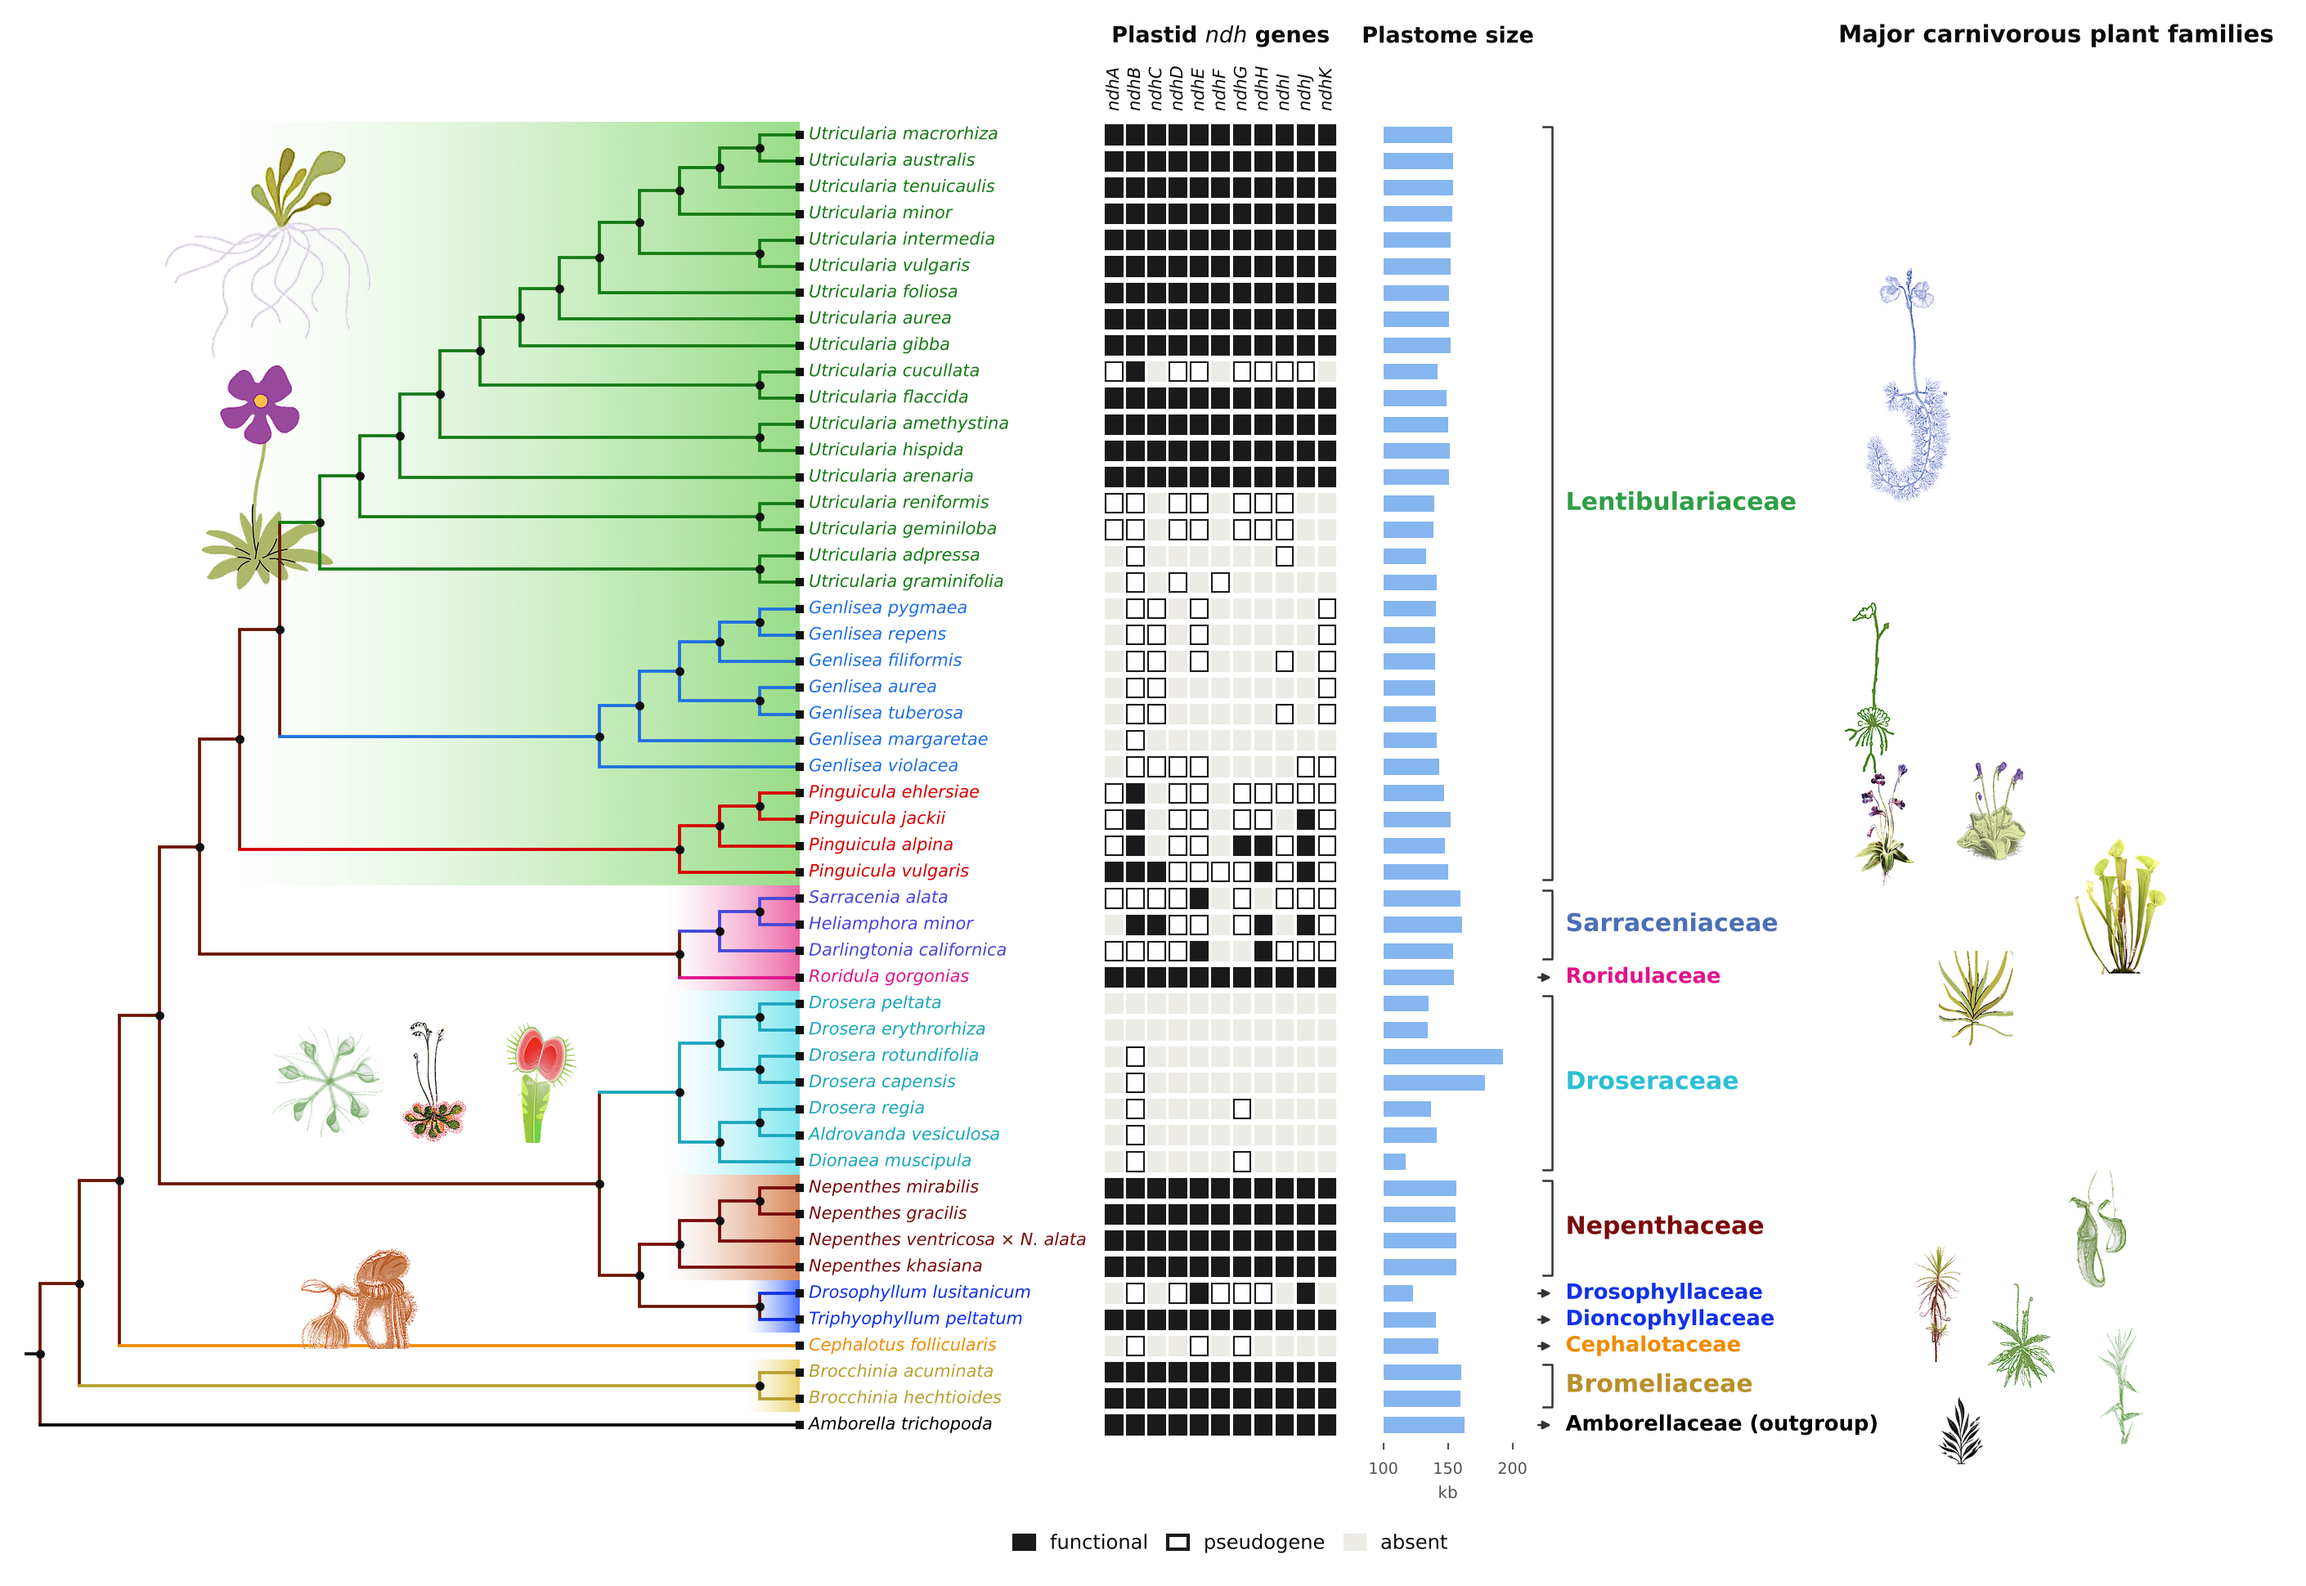
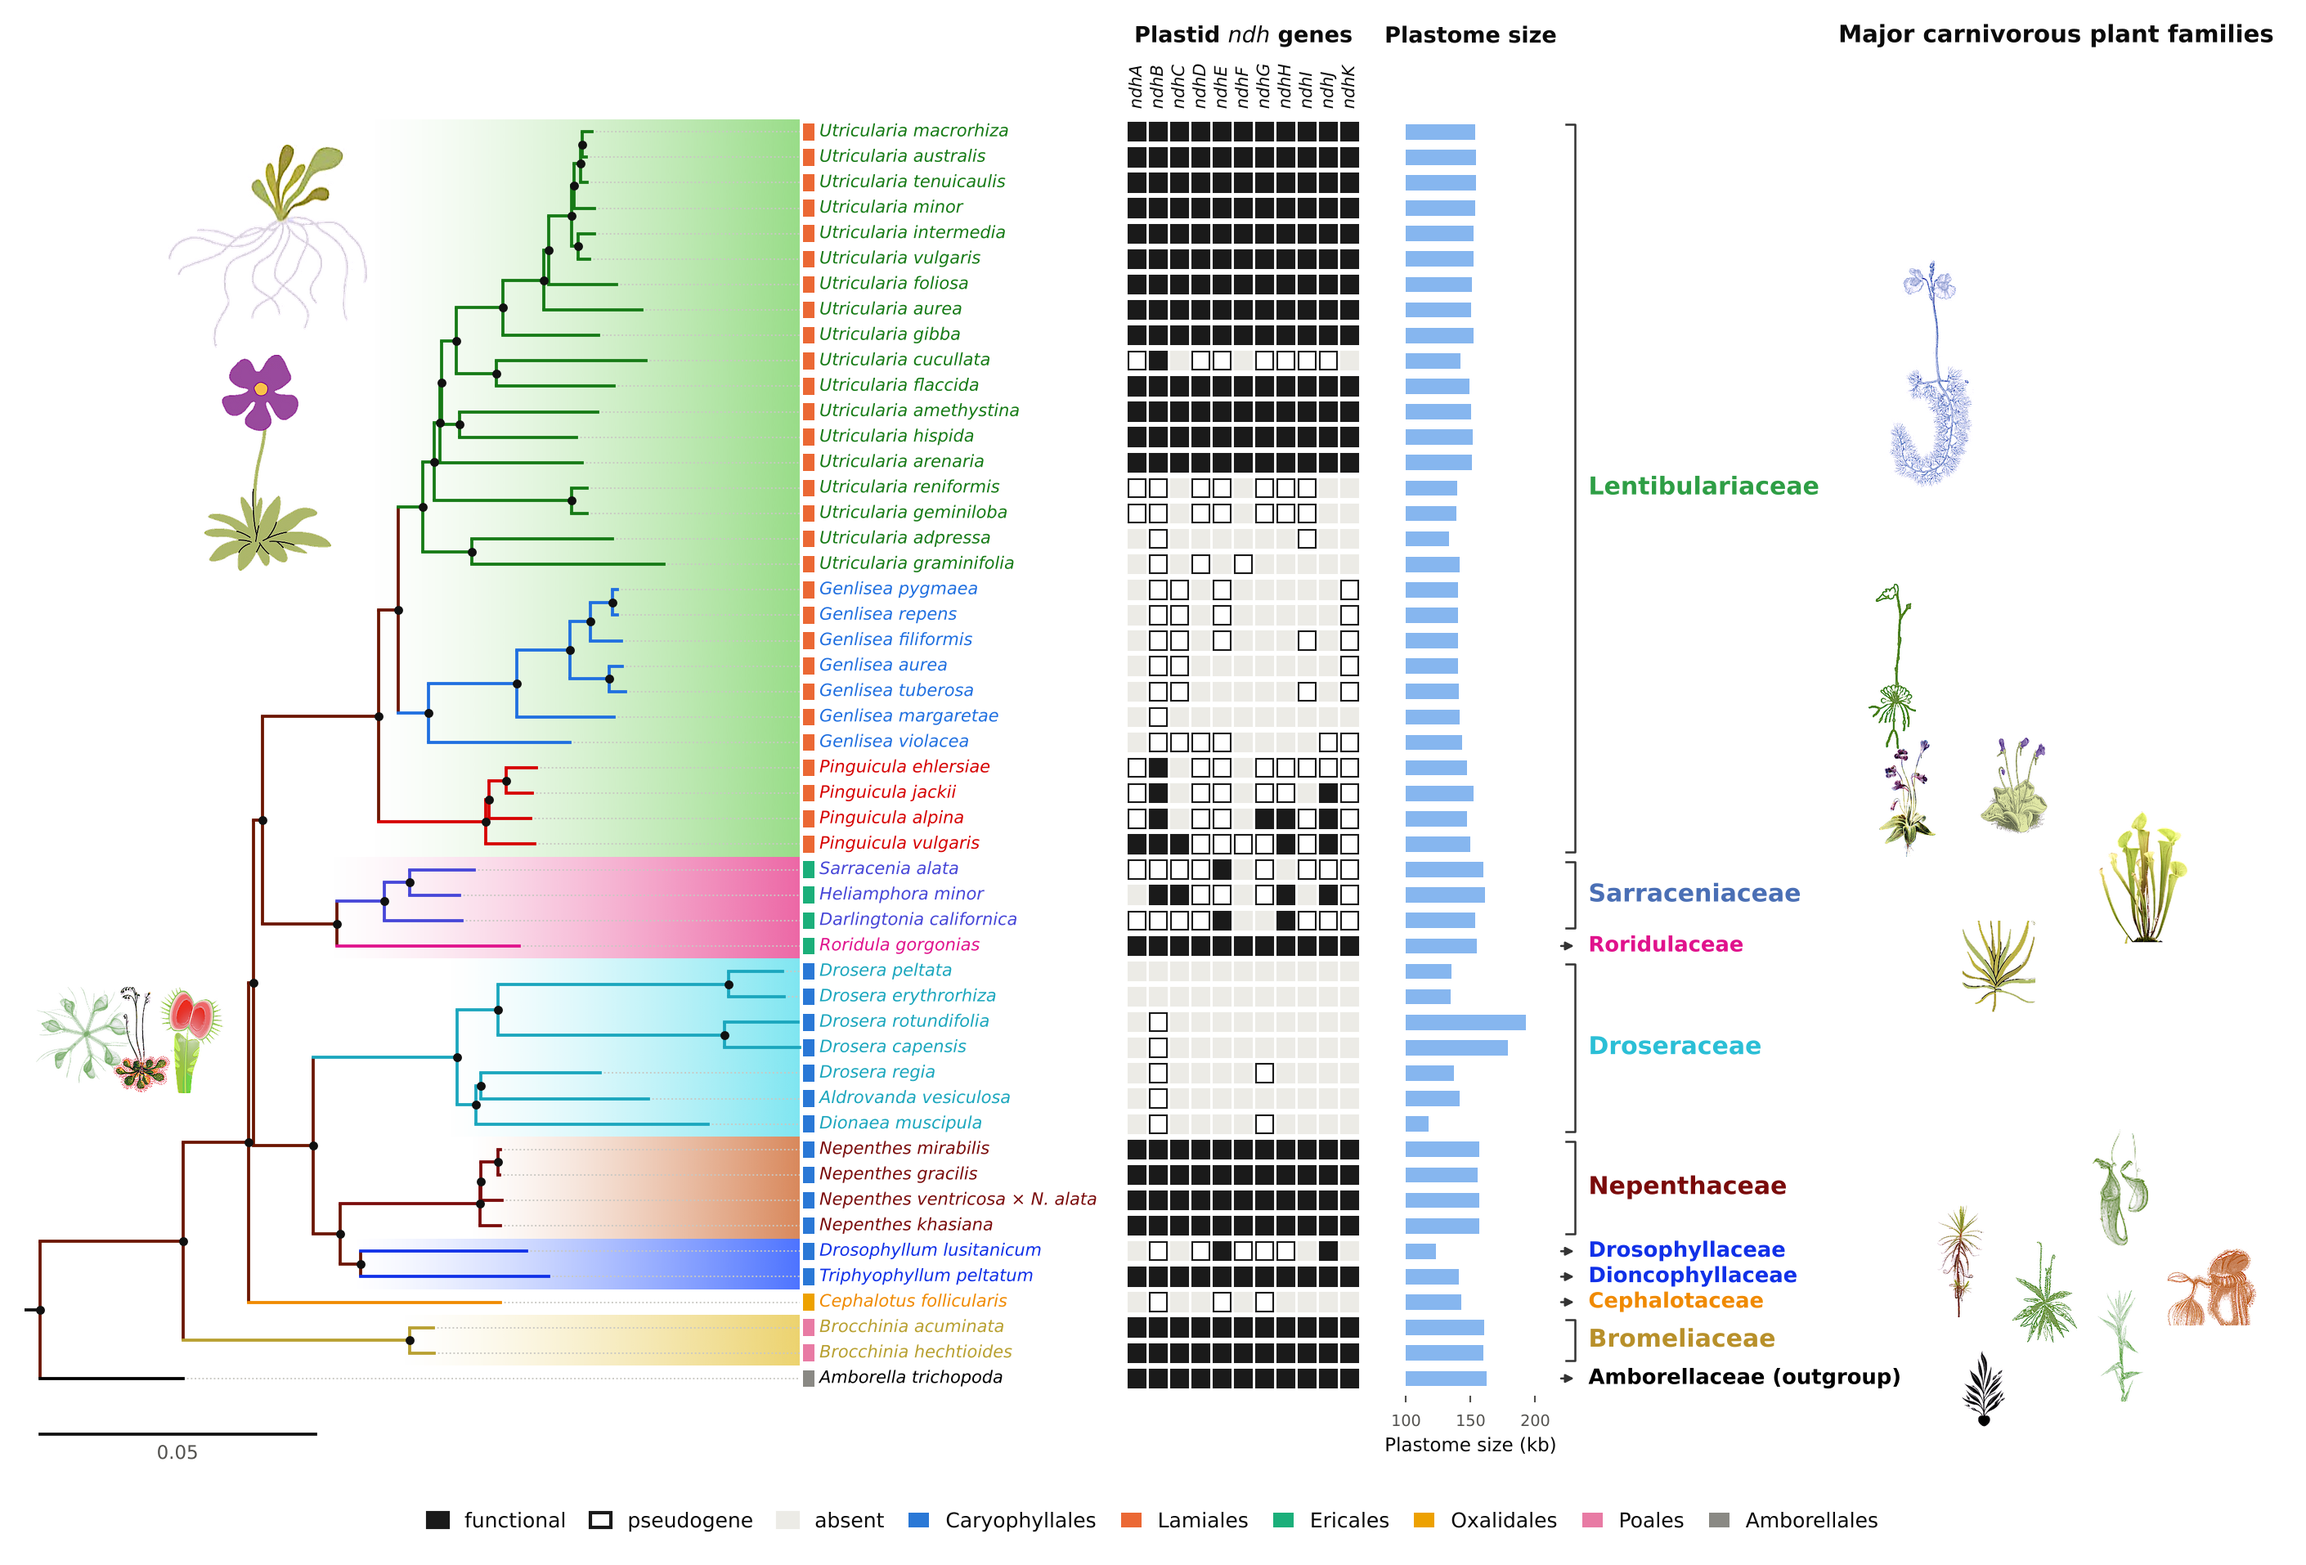
Figure 3: phylogram with scale bar, order key and plastome-size axis
Claude-Session: https://claude.ai/code/session_018DKqCkKyTRV1map7Ztk4b1

diff --git a/scripts/figures.py b/scripts/figures.py
@@ -425,14 +425,12 @@ def fig3_illustrated(out):
     m = meta()
     tr = Phylo.read('results/kmer/kmer_nj.nwk', 'newick')
     tr.root_with_outgroup('Amborella_trichopoda'); tr.ladderize(reverse=True)
+    a_, b_ = tr.root.clades; tot = (a_.branch_length or 0) + (b_.branch_length or 0)
+    a_.branch_length = b_.branch_length = tot / 2          # place the root midway on the outgroup branch
     terms = tr.get_terminals(); n = len(terms)
     yy = {t: i for i, t in enumerate(terms)}
-    height = {}
-    def ht(c):
-        height[c] = 0 if c.is_terminal() else 1 + max(ht(ch) for ch in c.clades)
-        return height[c]
-    ht(tr.root); Hmax = height[tr.root]
-    X = {c: 1 - height[c] / Hmax for c in tr.find_clades()}
+    dep = tr.depths(); DMAX = max(dep[t] for t in terms)
+    X = {c: dep[c] / DMAX for c in tr.find_clades()}   # phylogram: x proportional to Mash distance
     def sety(c):
         if c in yy: return yy[c]
         v = [sety(ch) for ch in c.clades]; yy[c] = (min(v) + max(v)) / 2; return yy[c]
@@ -453,8 +451,8 @@ def fig3_illustrated(out):
     fig = plt.figure(figsize=(W_in, H_in))
     ax = fig.add_axes([0.0, 0.06, 1.0, 0.88])
     XMAX = 2.95
-    ax.set_xlim(-0.02, XMAX); ax.set_ylim(n + 0.5, -3.6); ax.axis('off')
-    ux = (XMAX + 0.02) / W_in; uy = (n + 4.1) / (H_in * 0.88)
+    ax.set_xlim(-0.02, XMAX); ax.set_ylim(n + 2.4, -3.6); ax.axis('off')
+    ux = (XMAX + 0.02) / W_in; uy = (n + 6.0) / (H_in * 0.88)
 
     def picture(name, xc, yc, h_rows, z=3):
         img = plt.imread(f'figures/plants/{name}.png')
@@ -482,13 +480,18 @@ def fig3_illustrated(out):
             ax.plot(X[c], yy[c], 'o', ms=1.6, color='#111111', zorder=3)
     draw(tr.root)
     ax.plot([X[tr.root] - 0.02, X[tr.root]], [yy[tr.root]] * 2, color='#111111', lw=0.9)
+    sb = 0.05 / DMAX
+    ax.plot([0.0, sb], [n + 1.2] * 2, color='#111111', lw=0.9)
+    ax.text(sb / 2, n + 1.6, '0.05', ha='center', va='top', fontsize=5.5, color=INK2)
     # tip labels
     for t in terms:
         col = colour.get(id(t), '#000000')
-        ax.plot(1.0, yy[t], 's', ms=1.6, color='#111111', zorder=3)
-        ax.text(1.012, yy[t], pretty(t.name), va='center', fontsize=5.0, color=col, style='italic')
+        if X[t] < 0.995:
+            ax.plot([X[t], 1.0], [yy[t]] * 2, color='#c9c8c3', lw=0.45, ls=(0, (1, 1.5)), zorder=1)
+        ax.add_patch(Rectangle((1.004, yy[t] - 0.33), 0.016, 0.66, color=ORDER_COL[m.loc[t.name, 'order']], lw=0, zorder=3))
+        ax.text(1.026, yy[t], pretty(t.name), va='center', fontsize=5.0, color=col, style='italic')
     # ndh matrix
-    mx0, cw = 1.40, 0.028
+    mx0, cw = 1.43, 0.028
     sym = {'F': dict(fc='#1a1a1a', ec='#1a1a1a'), 'P': dict(fc='white', ec='#1a1a1a'), '-': dict(fc='#ecebe6', ec='#ecebe6')}
     for t in terms:
         r = ndh.loc[t.name]
@@ -507,7 +510,7 @@ def fig3_illustrated(out):
         xv = sx0 + sw * (v - 100) / 100
         ax.plot([xv, xv], [n - 0.3, n - 0.1], color=INK2, lw=0.5)
         ax.text(xv, n + 0.4, f'{v}', ha='center', va='top', fontsize=4.6, color=INK2)
-    ax.text(sx0 + sw / 2, n + 1.3, 'kb', ha='center', va='top', fontsize=4.8, color=INK2)
+    ax.text(sx0 + sw / 2, n + 1.3, 'Plastome size (kb)', ha='center', va='top', fontsize=5.5, color=INK)
     # family brackets and labels
     bx = sx0 + sw + 0.04
     for key, (mrca, tips, col, band, flab, fcol) in groups.items():
@@ -533,23 +536,23 @@ def fig3_illustrated(out):
     picture('nepenthes', px + 0.30, yof('Nepenthes'), 4.6)
     picture('drosophyllum', px + 0.09, yof('Drosophyllum') + 0.4, 4.4)
     picture('triphyophyllum', px + 0.20, yof('Triphyophyllum') + 0.6, 4.0)
-    picture('brocchinia', px + 0.33, yof('Brocchinia'), 4.4)
+    picture('brocchinia', px + 0.30, yof('Brocchinia') + 0.2, 4.4)
+    picture('cephalotus', px + 0.42, yof('Cephalotus') - 0.6, 3.0)
     picture('amborella', px + 0.12, yof('Amborella') + 0.4, 3.0)
     # drawings within the tree area, beside their clades
     dro = [t for t in terms if t.name.startswith(('Drosera', 'Dionaea', 'Aldrovanda'))]
     yd = (min(yy[t] for t in dro) + max(yy[t] for t in dro)) / 2
-    picture('aldrovanda', 0.38, yd, 4.2); picture('drosera', 0.52, yd, 4.6); picture('dionaea', 0.66, yd, 4.6)
-    picture('cephalotus', 0.42, yof('Cephalotus') - 1.8, 3.8)
+    picture('aldrovanda', 0.06, yd - 0.5, 3.8); picture('drosera', 0.135, yd - 0.3, 4.2); picture('dionaea', 0.20, yd - 0.3, 4.2)
     lent = [t for t in terms if t.name.startswith(('Genlisea', 'Pinguicula', 'Utricularia'))]
     yl0 = min(yy[t] for t in lent)
     picture('genlisea_root', 0.30, yl0 + 4.5, 8.0, z=1)
     picture('pinguicula_flower', 0.30, yl0 + 13.0, 8.5, z=1)
-    ax.set_xlim(-0.02, XMAX); ax.set_ylim(n + 0.5, -3.6); ax.set_aspect('auto')
+    ax.set_xlim(-0.02, XMAX); ax.set_ylim(n + 2.4, -3.6); ax.set_aspect('auto')
     # legend
     hs = [Patch(fc='#1a1a1a', ec='#1a1a1a', label='functional'), Patch(fc='white', ec='#1a1a1a', label='pseudogene'),
-          Patch(fc='#ecebe6', ec='#ecebe6', label='absent')]
-    ax.legend(handles=hs, loc='lower center', bbox_to_anchor=(mx0 / XMAX + 0.06, -0.075), ncol=3, frameon=False, fontsize=5.8,
-              handlelength=1.0, columnspacing=1.0)
+          Patch(fc='#ecebe6', ec='#ecebe6', label='absent')] + [Patch(fc=c, label=o) for o, c in ORDER_COL.items()]
+    ax.legend(handles=hs, loc='upper center', bbox_to_anchor=(0.5, -0.02), ncol=9, frameon=False, fontsize=6,
+              handlelength=1.0, columnspacing=1.2)
     fig.savefig(out, bbox_inches='tight', dpi=300); plt.close(fig)
 
 
